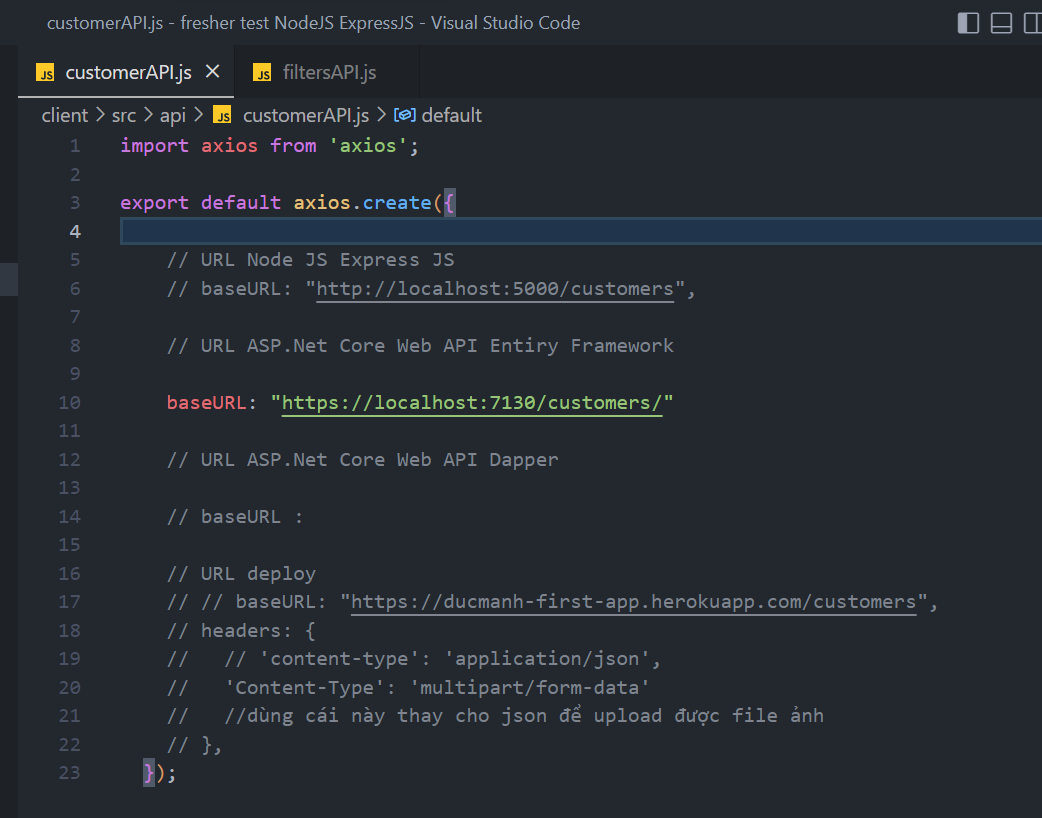
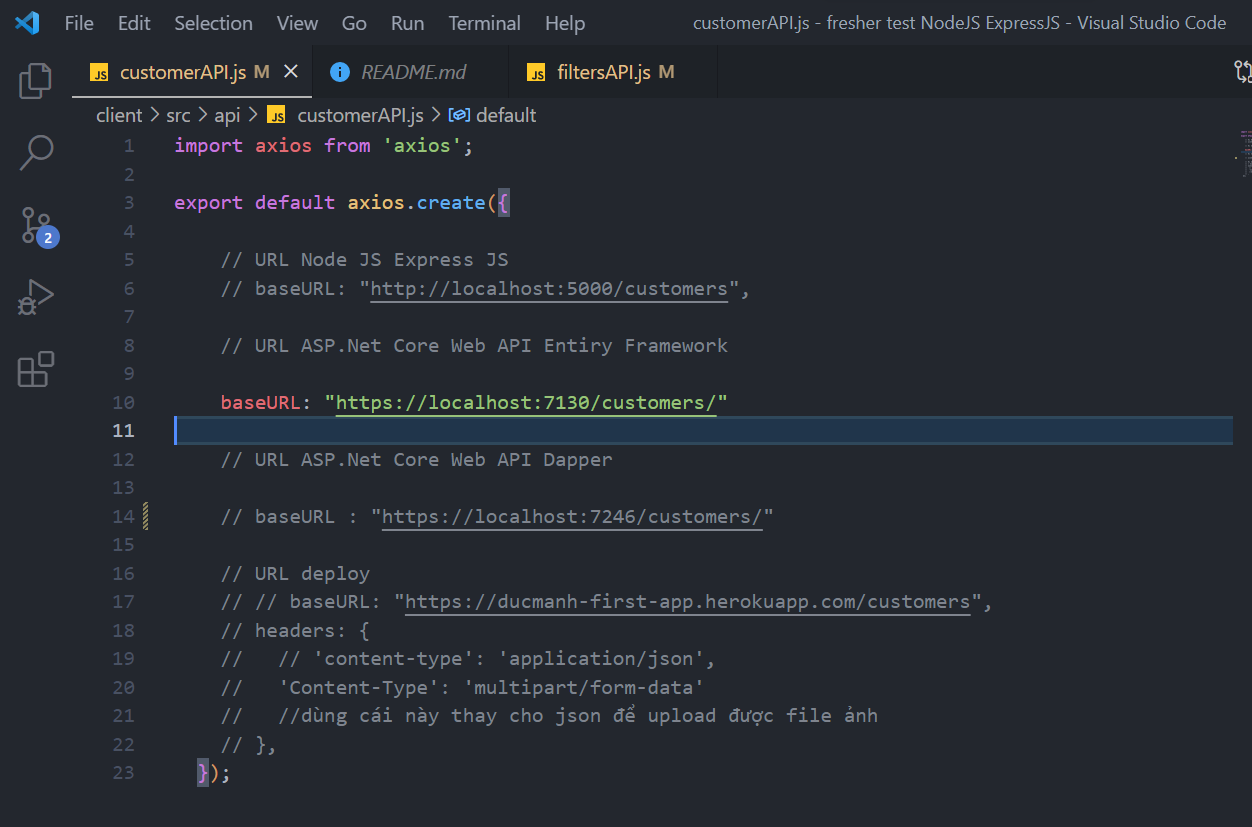
update baseURL for serverside Dapper ORM

diff --git a/client/src/api/customerAPI.js b/client/src/api/customerAPI.js
@@ -11,7 +11,7 @@ export default axios.create({
 
     // URL ASP.Net Core Web API Dapper
 
-    // baseURL : 
+    // baseURL : "https://localhost:7246/customers/"
 
     // URL deploy
     // // baseURL: "https://ducmanh-first-app.herokuapp.com/customers",

diff --git a/client/src/api/filtersAPI.js b/client/src/api/filtersAPI.js
@@ -9,7 +9,7 @@ export default axios.create({
 
     // URL ASP.Net Core Web API Dapper
 
-    // baseURL : 
+    // baseURL : "https://localhost:7246/filters/"
 
     //URL deploy
     // // baseURL: 'https://ducmanh-first-app.herokuapp.com/filters',
